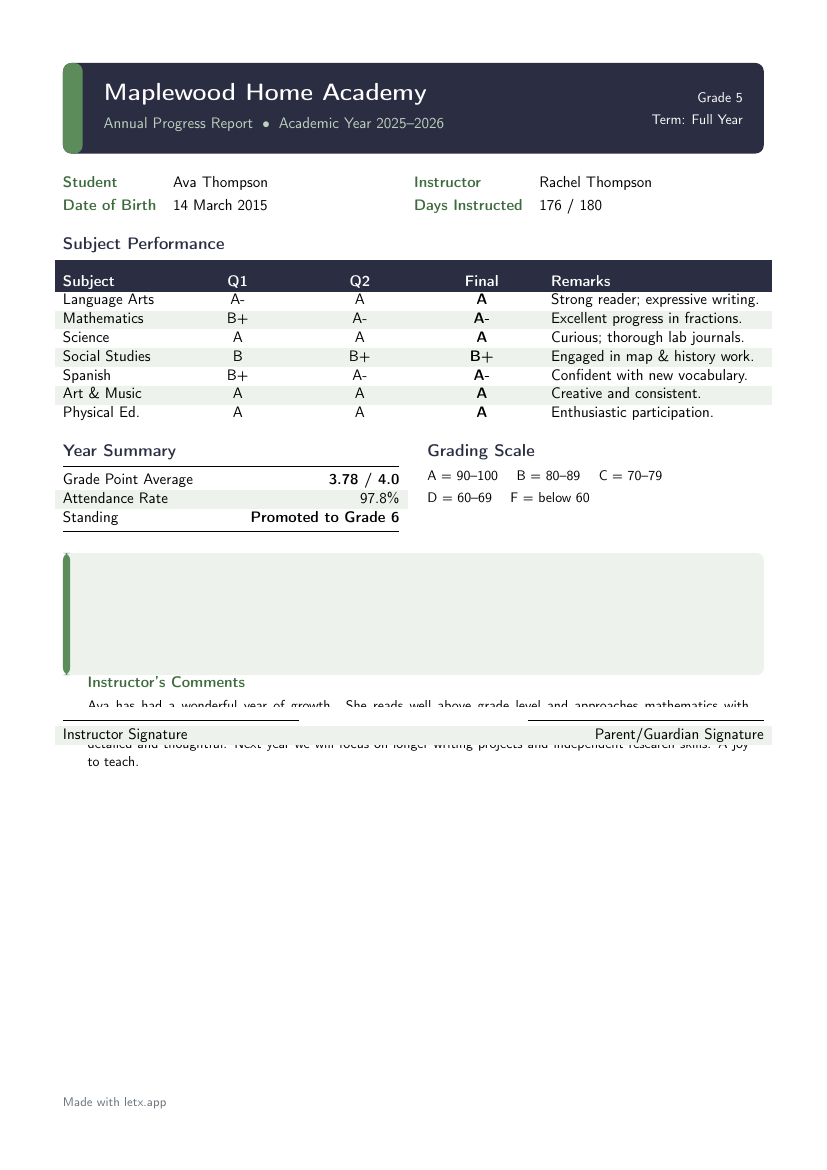
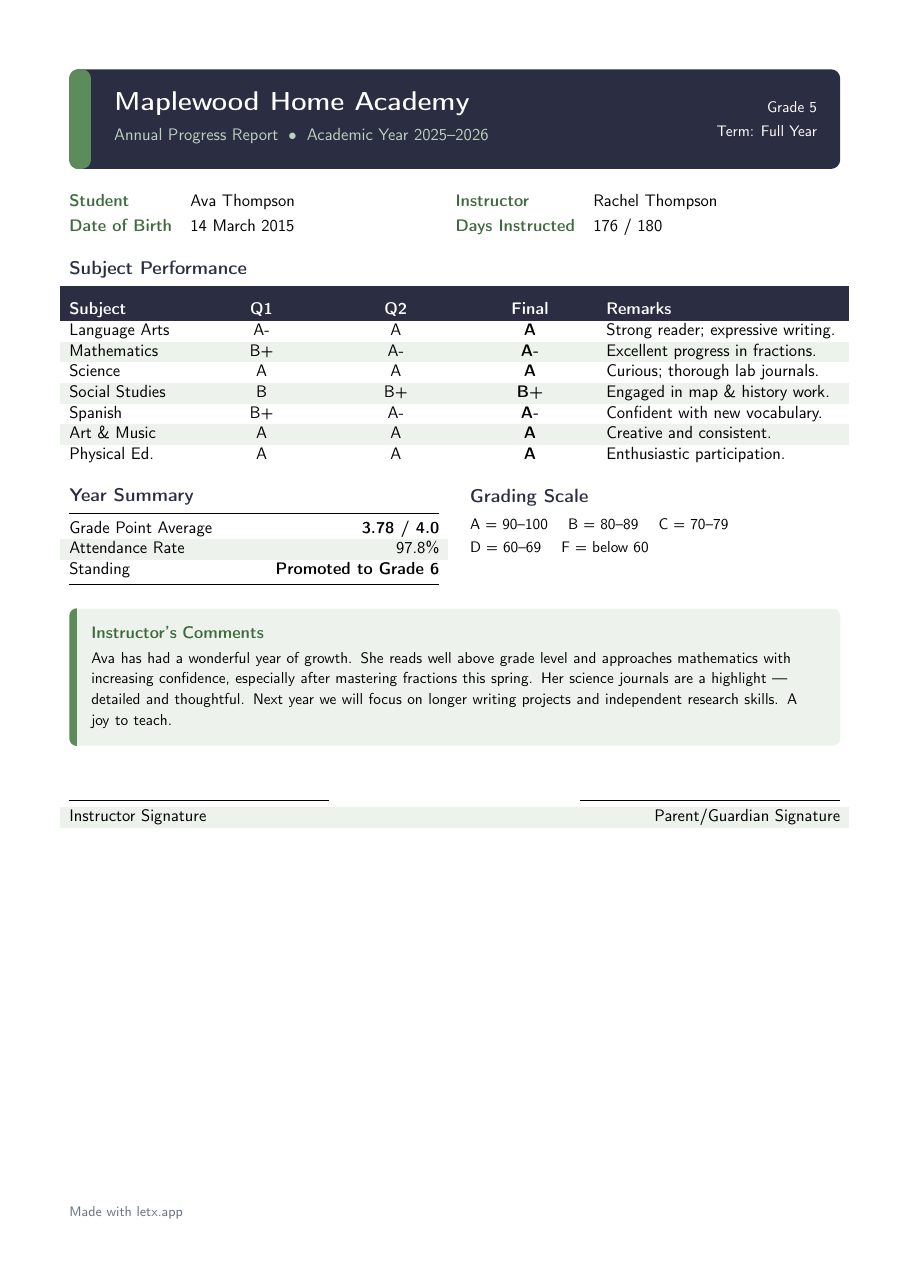
Fix nine layout bugs found by inspecting every preview
Picking thumbnails for a launch post meant opening the previews one by one, and
nine templates turned out to be visibly broken. Three were bad enough to be worth
calling bugs rather than rough edges. All nine are live on letx.app.

The three real ones

  tri-fold-brochure   opened on a blank page. The panel artwork is exactly as
                      tall as the page, and the dashed fold guides are stroked at
                      0.25mm, so their caps overhang the top by half that. 0.25mm
                      is 0.708pt, which is precisely the overfull \vbox the log
                      reported: the picture no longer fitted and was bumped to
                      the next sheet. Pinned the bounding box to the trim size.

  report-card         the instructor's comment ran straight through the signature
                      rules. It drew a fixed 3.1cm panel and then reversed into it
                      with \vspace{-2.95cm}, arithmetic that only lines up for a
                      comment of one exact length. Replaced with a node that grows
                      with its content.

  investment-tearsheet every metric showed against the wrong label. \metriclabel
                      used a bare \\ inside an X column, where it ends the table
                      ROW rather than breaking the line, so each metric terminated
                      its row early. Also \multicolumn{1}{X}{...}, which is not
[…]

diff --git a/finance/investment-tearsheet/main.tex b/finance/investment-tearsheet/main.tex
@@ -14,6 +14,7 @@
 \tcbuselibrary{skins}
 \usepackage{fontawesome5}
 \usepackage{tabularx}
+\usepackage{needspace}
 \usepackage{booktabs}
 \usepackage{multirow}
 \usepackage{enumitem}
@@ -72,9 +73,15 @@
 }
 
 % === Custom commands ===
+% Label over value. The stack lives in its own tabular because a bare \\ at the
+% top level of an X (paragraph) column ends the TABLE ROW rather than breaking
+% the line — so every metric used to terminate its row early and the values
+% ended up displayed against the wrong labels.
 \newcommand{\metriclabel}[2]{%
-  {\footnotesize\color{slate}#1}\\[1pt]
-  {\normalsize\color{navy}\bfseries#2}%
+  \begin{tabular}[t]{@{}l@{}}
+    {\footnotesize\color{slate}#1}\\[1pt]
+    {\normalsize\color{navy}\bfseries#2}
+  \end{tabular}%
 }
 
 \newcommand{\risktile}[2]{%
@@ -192,7 +199,10 @@
     \rowcolor{navy}
     \multicolumn{1}{@{}>{\color{white}\footnotesize}r}{\#} &
     \multicolumn{1}{l}{\color{white}\bfseries\footnotesize Holding} &
-    \multicolumn{1}{X}{\color{white}\bfseries\footnotesize Sector} &
+    % `l`, not `X`: X is a tabularx preamble column type and is not valid inside
+    % \multicolumn, which made this header cell set as its own paragraph and drop
+    % "Sector" onto a second line under the rest of the header.
+    \multicolumn{1}{l}{\color{white}\bfseries\footnotesize Sector} &
     \multicolumn{1}{r@{}}{\color{white}\bfseries\footnotesize Weight} \\
     \toprule
     1 & Apex Technologies Inc.           & Technology                & 5.82\% \\
@@ -253,7 +263,9 @@
   \toprule
   \rowcolor{navy}
   \color{white}\bfseries\footnotesize Period &
-  \color{white}\bfseries\footnotesize Quartile &
+  % forced to `l` so the header sits on the same baseline as its neighbours; an X
+  % (paragraph) column drops its first line lower than the plain columns beside it
+  \multicolumn{1}{l}{\color{white}\bfseries\footnotesize Quartile} &
   \color{white}\bfseries\footnotesize \% Rank &
   \color{white}\bfseries\footnotesize Peer Count &
   \color{white}\bfseries\footnotesize Return \\
@@ -278,6 +290,9 @@
 
 % ===== RISK METRICS =====
 \vspace{8pt}
+% Keep the heading with its table. Without this it stranded itself at the
+% bottom of page 1 with nothing under it, which reads as a broken document.
+\Needspace*{6\baselineskip}
 \section{Risk \& Portfolio Characteristics}
 \vspace{-2pt}
 \risktile{Alpha (3Y)}{\,+\,3.24\%}\hfill

diff --git a/education/report-card/main.tex b/education/report-card/main.tex
@@ -84,19 +84,28 @@ D = 60--69 \quad F = below 60}
 
 \vspace{0.5cm}
 % ---- comments ----
+% The comment panel sizes itself to the text. It used to draw a fixed 3.1cm box
+% and then reverse into it with \vspace{-2.95cm}, which only lined up for a
+% comment of one exact length: write a longer one and the text spilled out of
+% the panel and collided with the signature rules below. A node grows with its
+% content, so any length of comment stays inside the box.
 \begin{tikzpicture}
-  \fill[band,rounded corners=5pt] (0,0) rectangle (17.8,3.1);
-  \fill[accent,rounded corners=5pt] (0,0) rectangle (0.18,3.1);
+  \node[fill=band, rounded corners=5pt, inner xsep=5mm, inner ysep=4mm,
+        text width=16.8cm, align=left, anchor=north west] (comments) at (0,0) {%
+    {\color{accdark}\bfseries Instructor's Comments}\\[3pt]
+    {\small Ava has had a wonderful year of growth. She reads well above grade level and
+    approaches mathematics with increasing confidence, especially after mastering fractions
+    this spring. Her science journals are a highlight — detailed and thoughtful. Next year we
+    will focus on longer writing projects and independent research skills. A joy to teach.}%
+  };
+  % accent rule down the left edge, clipped to the panel's own height
+  \begin{scope}
+    \clip[rounded corners=5pt] (comments.north west) rectangle (comments.south east);
+    \fill[accent] (comments.north west) rectangle ([xshift=1.8mm]comments.south west);
+  \end{scope}
 \end{tikzpicture}
-\vspace{-2.95cm}\hspace{0.5cm}
-\begin{minipage}{16.8cm}
-{\color{accdark}\bfseries Instructor's Comments}\\[3pt]
-{\small Ava has had a wonderful year of growth. She reads well above grade level and
-approaches mathematics with increasing confidence, especially after mastering fractions
-this spring. Her science journals are a highlight — detailed and thoughtful. Next year we
-will focus on longer writing projects and independent research skills. A joy to teach.}
-\end{minipage}
-\vspace{1.4cm}
+
+\vspace{0.9cm}
 
 \begin{tabularx}{\linewidth}{@{}X X@{}}
 \rule{6cm}{0.5pt} & \hfill\rule{6cm}{0.5pt}\\

diff --git a/miscellaneous/cafe-menu/main.tex b/miscellaneous/cafe-menu/main.tex
@@ -14,6 +14,7 @@
 
 % ── Colors ───────────────────────────────────────────────────
 \usepackage[table]{xcolor}
+\usepackage{needspace}
 \definecolor{Chalkboard}{HTML}{2A3530}
 \definecolor{ChalkWhite}{HTML}{F0EAD6}
 \definecolor{ChalkGold}{HTML}{D4A843}
@@ -42,7 +43,12 @@
 \hypersetup{colorlinks=false, pdfborder={0 0 0}}
 
 % ── Helper Macros ────────────────────────────────────────────
+% Each section's items sit in a tabularx, which cannot break across pages: it
+% moves as one block. So the heading has to reserve room for the block as well
+% as itself, otherwise the table jumps to the next page and leaves the title
+% stranded over nothing. 16 lines covers the longest section here.
 \newcommand{\menusection}[1]{%
+  \Needspace*{16\baselineskip}%
   \vspace{5mm}%
   {\color{ChalkGold}\Large\bfseries\MakeUppercase{#1}}%
   \vspace{1.5mm}%

diff --git a/posters/poster-a1-modern/main.tex b/posters/poster-a1-modern/main.tex
@@ -85,7 +85,11 @@
 }
 
 % ── Title Customization ──────────────────────────────────────
-\title{Deep Heterogeneous Graph Learning for Scalable Drug--Target Interaction Prediction}
+% Wrapped in a \parbox so the title can run to two lines. Set as a single line
+% it overshot the title box and the last word was clipped at the poster edge,
+% and a bare \\ is not legal here because tikzposter sets the title in LR mode.
+\title{\parbox{0.92\textwidth}{\centering Deep Heterogeneous Graph Learning for
+        Scalable Drug--Target Interaction Prediction}}
 \author{Elena Marchetti\textsuperscript{1}\quad Kenji Watanabe\textsuperscript{1,2}\quad Fatima Al-Rashidi\textsuperscript{3}\quad Samuel Okonkwo\textsuperscript{1}}
 \institute{\textsuperscript{1}Dept. of Computational Biology, ETH Z\"{u}rich\quad \textsuperscript{2}RIKEN Center for Advanced Intelligence Project\quad \textsuperscript{3}KAUST}
 

diff --git a/posters/tri-fold-brochure/main.tex b/posters/tri-fold-brochure/main.tex
@@ -54,6 +54,10 @@
 % =====================================================================
 \noindent
 \begin{tikzpicture}[x=1mm,y=1mm]
+  % Pin the bounding box to the trim size. The dashed fold guides are stroked
+  % at 0.25mm, so their caps overhang y=210 by half that, which made the picture
+  % 0.708pt taller than the page and bumped it onto the next sheet.
+  \useasboundingbox (0,0) rectangle (297,210);
 
   % ---- panel backgrounds ----
   \fill[cream] (0,0) rectangle (99,210);
@@ -157,6 +161,10 @@
 % =====================================================================
 \noindent
 \begin{tikzpicture}[x=1mm,y=1mm]
+  % Pin the bounding box to the trim size. The dashed fold guides are stroked
+  % at 0.25mm, so their caps overhang y=210 by half that, which made the picture
+  % 0.708pt taller than the page and bumped it onto the next sheet.
+  \useasboundingbox (0,0) rectangle (297,210);
 
   % ---- panel backgrounds ----
   \fill[white] (0,0) rectangle (99,210);

diff --git a/posters/event-flyer/main.tex b/posters/event-flyer/main.tex
@@ -265,18 +265,15 @@
   % ── Centre: tickets ─────────────────────────────────────
   {%
     \sectionrule{Tickets}\vspace{3mm}
-    \begin{tabularx}{\linewidth}{
-      @{}
-      >{\color{accent}\bfseries}l
-      @{\hspace{6mm}}
-      >{\raggedright\arraybackslash}X
-      @{}
-    }
+    % A plain tabular, not tabularx: the price column used to be an X
+    % (paragraph) column, whose first line sits lower than the plain column
+    % beside it, so every price rendered off the baseline of its own label.
+    \begin{tabular}{@{}>{\color{accent}\bfseries}l@{\hspace{6mm}}l@{}}
       Early Bird  & EUR 12 \\[3pt]
       General     & EUR 20 \\[3pt]
       VIP Lounge  & EUR 45 \\[3pt]
       Door        & EUR 28 \\
-    \end{tabularx}
+    \end{tabular}
     \vspace{4mm}
     \pill[accent]{Limited Early Bird Available}
     \vspace{3mm}\par

diff --git a/miscellaneous/business-card/main.tex b/miscellaneous/business-card/main.tex
@@ -66,8 +66,14 @@
   \draw[white!55!accent,line width=0.4pt] (5,22) -- (54,22);
 
   %% company name rotated on stripe
-  \node[rotate=90,text=white,font=\tiny\bfseries,anchor=south,opacity=0.75]
-    at (13,7) {\MakeUppercase{Vertex Solutions Inc.}};
+  % Centred on the stripe rather than anchored 7pt from one end: anchoring at a
+  % fixed offset only fits a company name of one particular length, and this
+  % one ran past the card edge and got clipped to "OLUTIONS INC.".
+  % Sized to the stripe: at \tiny the uppercase name is wider than the card is
+  % tall, so it overran both ends and read as "VERTEX SOLUTION".
+  \node[rotate=90,text=white,font=\fontsize{4}{4.8}\selectfont\bfseries,
+        anchor=center,opacity=0.75]
+    at (13,{\CH/2}) {\MakeUppercase{Vertex Solutions Inc.}};
 
   %% tagline in corner
   \node[text=accentlt,font=\tiny\itshape,anchor=north east]

diff --git a/presentations/beamer-pitch-deck/main.tex b/presentations/beamer-pitch-deck/main.tex
@@ -79,7 +79,11 @@
     \vspace{1.5cm}
     \begin{minipage}{0.85\textwidth}
         {\color{brandTeal}\bfseries\small SERIES SEED PITCH DECK} \\[0.4cm]
-        {\color{brandLight}\Huge\bfseries Next-Gen Neural Data Processing} \\[0.3cm]
+        % \raggedright, and hyphenation off: justified inside a minipage this
+        % narrow, the title stretched its word spacing and broke "Processing"
+        % across lines as "Pro-cessing" on the opening slide.
+        {\color{brandLight}\Huge\bfseries\raggedright\hyphenpenalty=10000\exhyphenpenalty=10000
+         Next-Gen Neural Data Processing\par} \vspace{0.3cm}
         {\color{brandLight!80}\large Accelerating human-machine throughput by 10x.}
     \end{minipage}
     

diff --git a/cvs-resumes/architect-portfolio-resume/main.tex b/cvs-resumes/architect-portfolio-resume/main.tex
@@ -75,6 +75,7 @@
 \setlist[itemize]{leftmargin=*, nosep, before=\small}
 \setlist[itemize,1]{label={\color{accent}\tiny\faSquare}}
 
+\usepackage{needspace}
 \begin{document}
 
 \begin{center}
@@ -188,6 +189,9 @@
   \end{itemize}
 
   \vspace{6pt}
+  % keep the heading with the first project box rather than stranding it
+  % at the foot of the column
+  \Needspace*{20\baselineskip}%
   {\large\bfseries\color{dark}Selected Projects}
   \sectionrule
 
